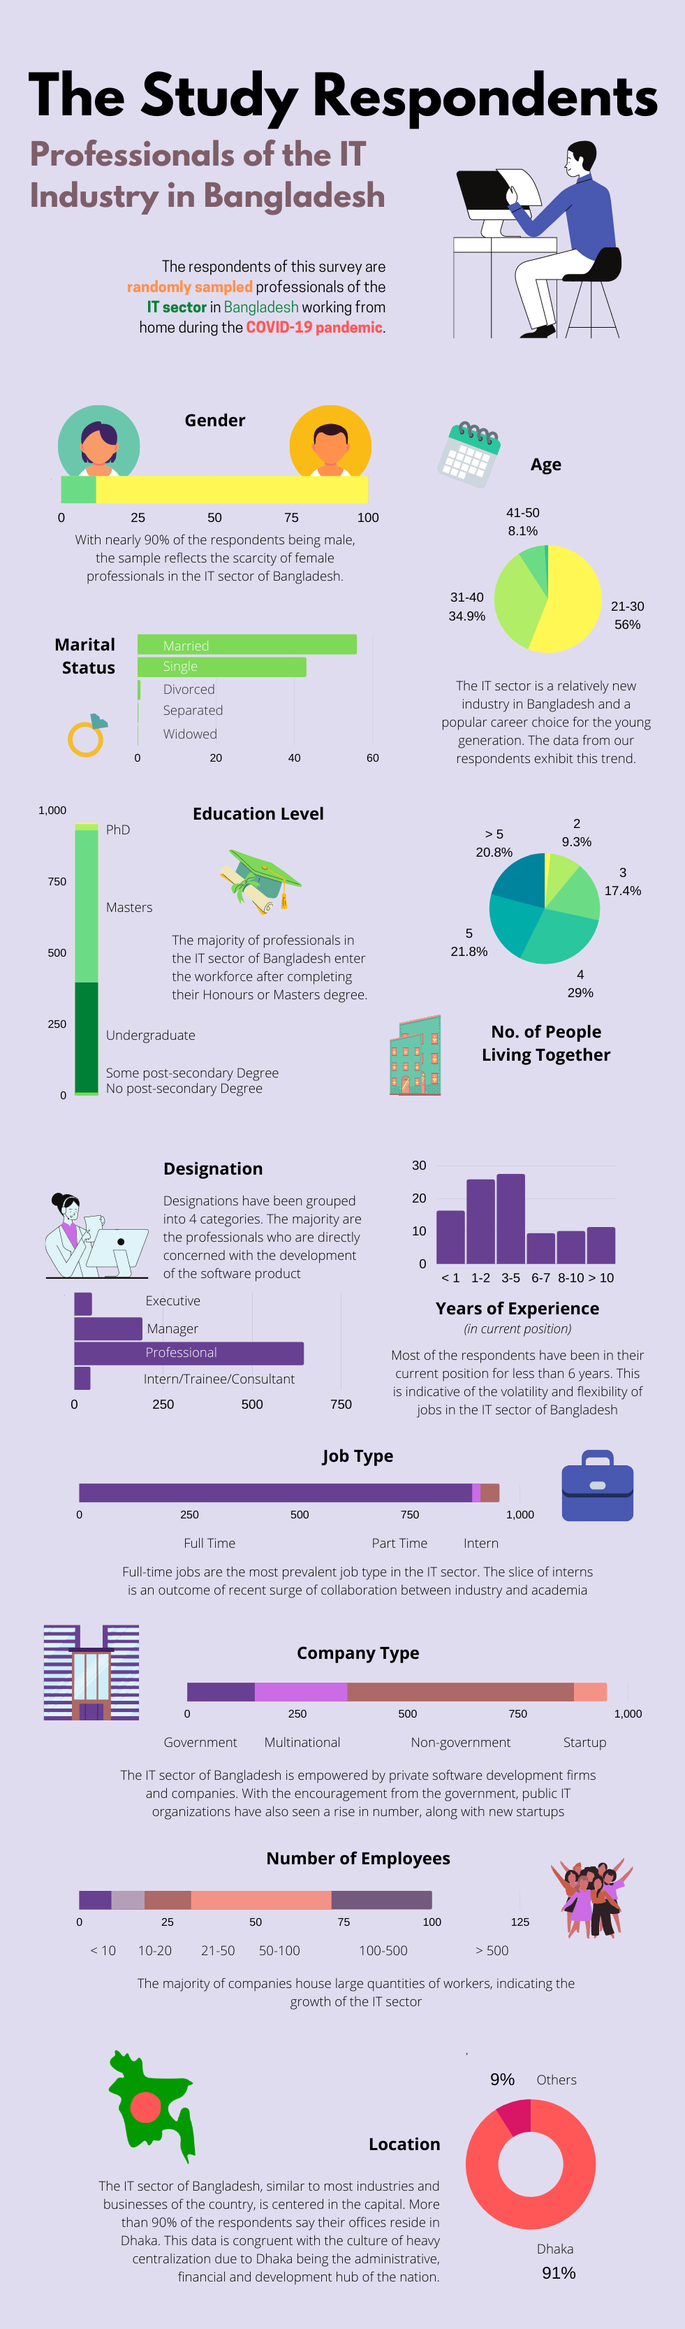
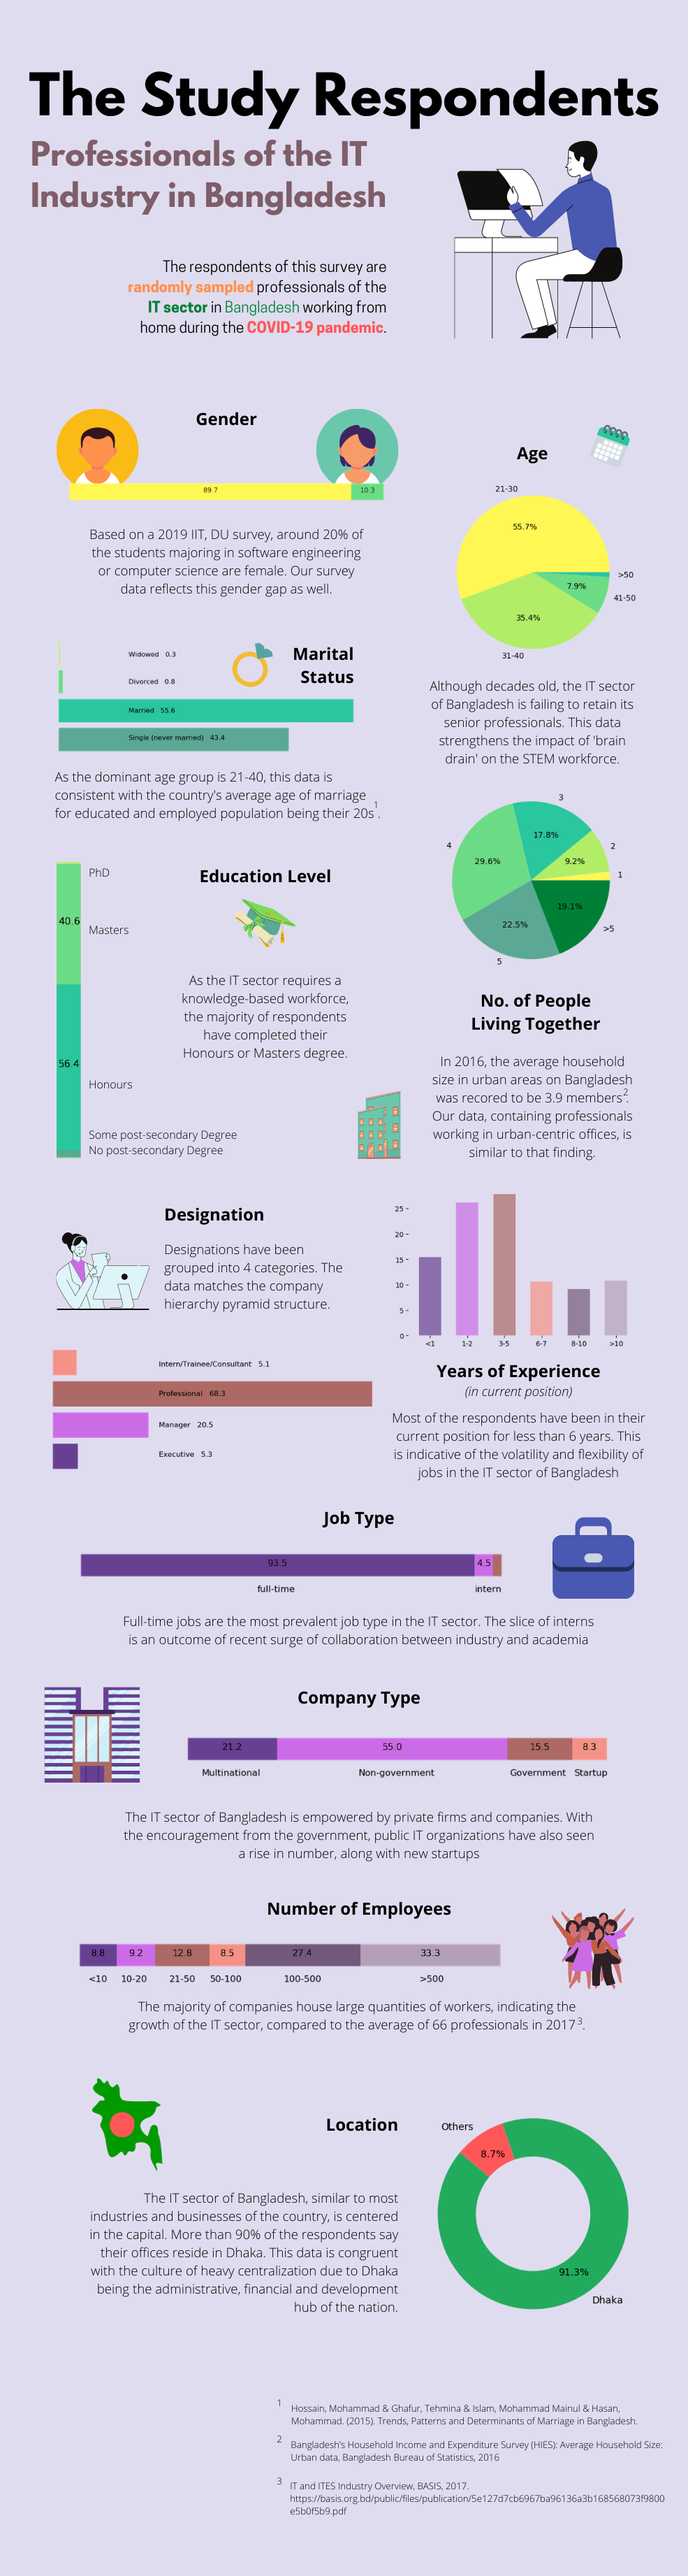
images updated

Changed region(s): [[0.0306, 0.0, 0.9786, 0.9985]]

diff --git a/_posts/2020-08-13-wfh-blog.md b/_posts/2020-08-13-wfh-blog.md
@@ -23,9 +23,9 @@ The results, as detailed in the charts below, show that the effects of WFH are n
 
 The target demographic of the survey were professionals in the IT sector of Bangladesh. This includes software firms, banks and other finance organizations, telecom companies, technology consultancies, IT and network services providers, and Information Technology Enabled Services (ITeS).
 
-Among the randomly sampled **1237 total respondents**, 106 still worked from their offices. Although not considered in the following analysis, this portion of the sample shows that not all professionals in the IT sector (e.g. the banking sector) were allowed the opportunity to work remotely.
+Among the randomly sampled **1237 total respondents**, 106 still worked from their offices. Although not considered in the following analysis, this portion of the sample shows that not all professionals in the IT sector (e.g. the banking sector) were allowed the opportunity to work remotely. A further 69 responses were considered invalid as the respondents* were not IT professionals.
 
-Our study was based on the remaining **1131 respondents**. Before analyzing their WFH performance and productivity, we can take a look at their basic information. These information - their age, gender, education level and more - establish a few preexisting notions and trends in the IT sector of the country. For instance, it is seen that **88.69% of the respondents are male**, which is congruent with the male dominated industry. Other such patterns are demonstrated below.
+Our study was based on the remaining **1062 respondents**. Before analyzing their WFH performance and productivity, we can take a look at their basic information. These information - their age, gender, education level and more - establish a few preexisting notions and trends in the IT sector of the country. For instance, it is seen that **88.69% of the respondents are male**, which is congruent with the male dominated industry. Other such patterns are demonstrated below.
 
 ![Demographic](/assets/img/demographic.png)
 
